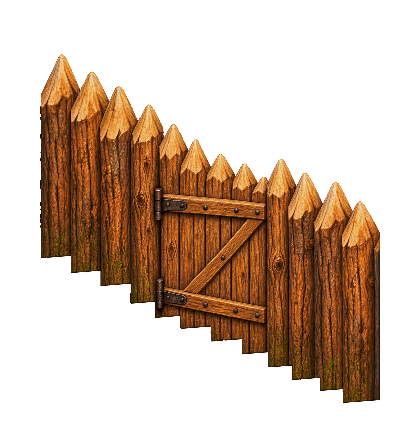
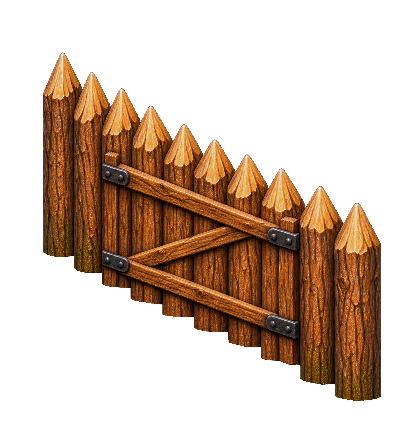
fix(art): refine northeast palisade gate to ten-stake reference
Use a fresh independent AI painting with sloped straight rails, original canvas and calibrated endpoints. Preserve other five gate assets and all wall geometry; refresh NE image and scene cache.

Changed region(s): [[0.0929, 0.1171, 0.9286, 0.9077]]

diff --git a/index.html b/index.html
@@ -408,11 +408,11 @@ Ihre Form wird ausschließlich im Bergwerkzeug eingestellt. Ihre Deckkraft folgt
 window.VedrasCloudsDisabled=new URLSearchParams(location.search).get('clouds')!=='1';</script>
 <script src="asset-image-pool.js?v=0.3.1&amp;step11=20261028"></script><script src="render-quality-policy.js?v=0.1.0&amp;terrain=quality-source-20261117"></script><script src="gpu-terrain.js?v=0.2.0&amp;uvHighp=20261122"></script><script src="strategic-view.js?v=0.1.0"></script><script src="static-terrain-cache.js?v=0.1.0"></script><script src="render-benchmark-profiler.js?v=0.1.0"></script>
 <script src="render-step15-trace.js?v=0.1.0"></script>
-<script src="sprite-atlas-runtime.js?v=0.3.0"></script><script src="worldgen-geography.js?v=2.1.2"></script><script src="geography-io.js?v=20261120-io-v1"></script><script src="catalog.js?v=0.18.0"></script><script src="terrain-source-rules.js?v=0.18.0"></script><script src="water-texture.js?v=20261119-forest-seamless-v2"></script><script src="autotile.js?v=20261119-ground-wrap-v1"></script><script src="chunks.js?v=0.37.1&amp;step16b=20261101-offscreen1"></script><script src="terrain-worker-client.js?v=20261119-ground-wrap-v1"></script><script src="nature_catalog.js?v=20261121-desert-trees-v1"></script><script src="flora-plan.js?v=0.17.0"></script><script src="terrain-plan.js?v=0.18.0"></script><script src="sprite-planner.js?v=0.16.0"></script><script src="existing-asset-rules.js?v=20261121-desert-trees-v1"></script><script src="forest.js?v=20261122-canopy-variation-v1"></script><script src="forest-ground.js?v=20261120-organic-v1&amp;softSnow=20261122"></script><script src="nature-balance.js?v=0.36.1"></script><script src="polish.js?v=0.21.0"></script><script src="relief.js?v=0.35.0"></script><script src="shoreline.js?v=0.30.1&amp;artfix=20261027"></script><script src="river.js?v=0.30.0"></script><script src="river-banks.js?v=0.2.0"></script><script src="mountain.js?v=0.11.0"></script><script src="roads.js?v=0.31.0"></script><script src="walls.js?v=20261124-palisade-gates-ai-v4&amp;palisadeGates=20261124-stage2-v6"></script><script src="bridges.js?v=0.28.0"></script><script src="shadow-tone.js?v=20261122-shadow-union-v1"></script><script src="shadow-system.js?v=20261122-gray-all-v1"></script><script src="shadow-shapes.js?v=20261122-gray-all-v1"></script><script src="sprite-shadow-editor.js?v=20261122-shadow-union-v1"></script><script src="shadow-painter-ui.js?v=0.1.0"></script><script src="object-layout-cache.js?v=0.2.0"></script><script src="static-object-layer.js?v=0.2.0"></script><script src="gpu-sprite-layer.js?v=0.1.0"></script><script src="frame-preparation-cache.js?v=0.1.0"></script><script src="adaptive-lod.js?v=0.1.1&amp;step10=20261027"></script><script src="realtime-map-renderer.js?v=0.1.1"></script><script src="cloud-artwork.js?v=0.22.4&amp;step12=20261028"></script><script src="fog-atmosphere.js?v=0.22.4"></script><script src="quick-terrain-preview.js?v=20261101-1"></script>
+<script src="sprite-atlas-runtime.js?v=0.3.0"></script><script src="worldgen-geography.js?v=2.1.2"></script><script src="geography-io.js?v=20261120-io-v1"></script><script src="catalog.js?v=0.18.0"></script><script src="terrain-source-rules.js?v=0.18.0"></script><script src="water-texture.js?v=20261119-forest-seamless-v2"></script><script src="autotile.js?v=20261119-ground-wrap-v1"></script><script src="chunks.js?v=0.37.1&amp;step16b=20261101-offscreen1"></script><script src="terrain-worker-client.js?v=20261119-ground-wrap-v1"></script><script src="nature_catalog.js?v=20261121-desert-trees-v1"></script><script src="flora-plan.js?v=0.17.0"></script><script src="terrain-plan.js?v=0.18.0"></script><script src="sprite-planner.js?v=0.16.0"></script><script src="existing-asset-rules.js?v=20261121-desert-trees-v1"></script><script src="forest.js?v=20261122-canopy-variation-v1"></script><script src="forest-ground.js?v=20261120-organic-v1&amp;softSnow=20261122"></script><script src="nature-balance.js?v=0.36.1"></script><script src="polish.js?v=0.21.0"></script><script src="relief.js?v=0.35.0"></script><script src="shoreline.js?v=0.30.1&amp;artfix=20261027"></script><script src="river.js?v=0.30.0"></script><script src="river-banks.js?v=0.2.0"></script><script src="mountain.js?v=0.11.0"></script><script src="roads.js?v=0.31.0"></script><script src="walls.js?v=20261124-palisade-gates-ai-v4&amp;palisadeGates=20261124-ne-refined-v7"></script><script src="bridges.js?v=0.28.0"></script><script src="shadow-tone.js?v=20261122-shadow-union-v1"></script><script src="shadow-system.js?v=20261122-gray-all-v1"></script><script src="shadow-shapes.js?v=20261122-gray-all-v1"></script><script src="sprite-shadow-editor.js?v=20261122-shadow-union-v1"></script><script src="shadow-painter-ui.js?v=0.1.0"></script><script src="object-layout-cache.js?v=0.2.0"></script><script src="static-object-layer.js?v=0.2.0"></script><script src="gpu-sprite-layer.js?v=0.1.0"></script><script src="frame-preparation-cache.js?v=0.1.0"></script><script src="adaptive-lod.js?v=0.1.1&amp;step10=20261027"></script><script src="realtime-map-renderer.js?v=0.1.1"></script><script src="cloud-artwork.js?v=0.22.4&amp;step12=20261028"></script><script src="fog-atmosphere.js?v=0.22.4"></script><script src="quick-terrain-preview.js?v=20261101-1"></script>
 <script src="frozen-map-package.js?v=20261101-2"></script>
 <script src="authored-world-contract.js?v=20261118-semantic-world-v1"></script>
 <script src="frozen-map-runtime.js?v=20261118-near-archive-audit-v4&amp;edgePolicy=20261119&amp;linkedAudit=20261122&amp;coreScene=20261122"></script>
 <script src="frozen-ground-core-seams.js?v=20261120-owned-core-gate-v1&amp;hexTip=20261122"></script>
 <script src="world-tile-streamer.js?v=0.22.6&amp;fix=exact-lod-20261117&amp;clouds=off-20261120&amp;coreFilter=20261122"></script>
-<script src="world-tile-ground-reuse.js?v=0.1.0"></script><script src="app.js?v=20261120-organic-v1&amp;diagnostics=20261121&amp;shadows=partial-20261121&amp;edgeCore=20261122&amp;localPreview=20261122&amp;softSnow=20261122&amp;grayAll=20261122&amp;shadowUnion=20261122&amp;footGate=20261122&amp;walls=20261124-palisade-gates-ai-v4&amp;palisadeGates=20261124-stage2-v6&amp;coreScene=20261122&amp;geography=2.1.2&amp;geographyIO=20261120&amp;clouds=off-20261120"></script><script src="nature-ui.js?v=20261122-open-trees-v1&amp;alpineShrubs=20261122&amp;wallClear=20261124"></script><script src="road-ui.js?v=0.28.0"></script><script src="wall-ui.js?v=20261124-palisade-gates-ai-v4"></script><script src="ui-organizer.js?v=20261122-shadow-gray-shortcut-v1"></script><script src="forest-ui.js?v=20261122-canopy-variation-v1"></script><script src="river-ui.js?v=0.15.0"></script><script src="flora-workspace.js?v=0.13.0"></script>
+<script src="world-tile-ground-reuse.js?v=0.1.0"></script><script src="app.js?v=20261120-organic-v1&amp;diagnostics=20261121&amp;shadows=partial-20261121&amp;edgeCore=20261122&amp;localPreview=20261122&amp;softSnow=20261122&amp;grayAll=20261122&amp;shadowUnion=20261122&amp;footGate=20261122&amp;walls=20261124-palisade-gates-ai-v4&amp;palisadeGates=20261124-ne-refined-v7&amp;coreScene=20261122&amp;geography=2.1.2&amp;geographyIO=20261120&amp;clouds=off-20261120"></script><script src="nature-ui.js?v=20261122-open-trees-v1&amp;alpineShrubs=20261122&amp;wallClear=20261124"></script><script src="road-ui.js?v=0.28.0"></script><script src="wall-ui.js?v=20261124-palisade-gates-ai-v4"></script><script src="ui-organizer.js?v=20261122-shadow-gray-shortcut-v1"></script><script src="forest-ui.js?v=20261122-canopy-variation-v1"></script><script src="river-ui.js?v=0.15.0"></script><script src="flora-workspace.js?v=0.13.0"></script>
 </body></html>

diff --git a/walls.js b/walls.js
@@ -332,7 +332,8 @@ window.VedrasWalls=(()=>{
    pending.push(new Promise(resolve=>{
     image.onload=()=>resolve(true);image.onerror=()=>resolve(false);
     image.src='assets/walls/palisade/gates/v1/gate_dir'+side+'.png?v='+
-     ((side===2||side===3)?'20261124-timber-gates-south-stage1-v5':'20261124-timber-gates-stage2-v6');
+     (side===0?'20261124-timber-gate-ne-refined-v7':
+      (side===2||side===3)?'20261124-timber-gates-south-stage1-v5':'20261124-timber-gates-stage2-v6');
    }));
   }
   for(const name of ['corner_post','end_post']){

diff --git a/app.js b/app.js
@@ -4424,6 +4424,7 @@ function frozenSceneKey({force4x=false}={}){
   'palisade-ai-painted-gates-v4',
   'palisade-ai-south-stage1-v5',
   'palisade-ai-complete-stage2-v6',
+  'palisade-ai-ne-refined-v7',
   'forest-floor-wrap-v1',
   'organic-forest-fringes-and-soft-snow-v4',
   // Strict source-core alpha stabilization and read-only seam publication

diff --git a/assets/walls/palisade/gates/v1/README.md b/assets/walls/palisade/gates/v1/README.md
@@ -1,7 +1,7 @@
-# Closed palisade gates — stage 2 (all directions)
+# Closed palisade gates — complete AI raster set, NE refinement v7
 
-All six directions now use the new AI-generated raster candidate set. Directions 0, 1 and 4 were independently generated using the accepted original palisade references; directions 2 and 3 retain the previously integrated stage 1 PNGs. Direction 5 is a byte-identical reuse of direction 2 with the existing direction 5 render anchor. No SVG, drawing of gate components, or compositing of different timber images is used in the new assets.
+All six directions use independently generated AI raster gate artwork, except direction 5, which reuses the exact direction 2 PNG bytes with its own existing anchor. The accepted original palisade edge WebPs are the reference artwork. No SVG, procedural gate drawing, or compositing of separate timber images is used in these candidates. Historical v4 composition scripts are not a source for the new set.
 
-The original reference canvas sizes and render anchors are retained: 420 × 444 px (0), 84 × 630 px (1, 4), 423 × 444 px (2, 3, 5). Technical preparation comprises whole-image alignment, alpha cleanup, modest palette correction, and a small central width calibration for the two edge-on sprites. The existing normal palisades, stone artwork, joins, shadows and vegetation clearance are not modified.
+Original canvas dimensions and render anchors are retained: 420 × 444 px (0), 84 × 630 px (1, 4), 423 × 444 px (2, 3, 5). Technical preparation uses whole-image geometric calibration, alpha cleanup and modest palette matching. Directions 1 and 4 are independent, non-mirrored edge-on renderings with narrow reinforcement. The original walls, stone assets, joints, shadows and vegetation clearance logic remain unchanged.
 
-Stage 2 QA: the new independent sprites have opaque interiors and transparent exteriors. They were compared with their original references against light, dark and green backgrounds. Direction 0 has 12 rather than 10 visible stake tips, and the wood texture and internal stake positions are not pixel-identical to the originals. Directions 1 and 4 are separately painted, not flipped, with a narrow reinforced gate assembly. These are review candidates, not a claim of exact visual equivalence or final editor approval. Historical v4 composition outputs and scripts are not a source for this set. Do not regenerate this set using those scripts.
+NE v7 replaces the earlier twelve-tip candidate with a newly generated ten-tip painting, following the original descending hex projection. Both outer foot points match the reference to within one raster pixel in Y; the two horizontal rails follow the descending edge and remain straight. All six candidate sprites have one connected alpha silhouette and no partially transparent interior pixels (two-pixel boundary excluded), and have been checked against light, dark and green backgrounds. Some texture, tip positions and internal baseline steps still differ from the original walls. Exact visual equivalence and complete browser/editor acceptance are not claimed.
